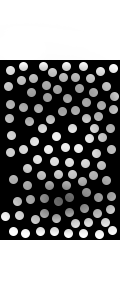
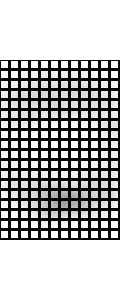
feat: add GridMapInterfaceConfig

diff --git a/legged_traj_planner/legged_traj_plan/src/perception_interface/GridMapInterface.cpp b/legged_traj_planner/legged_traj_plan/src/perception_interface/GridMapInterface.cpp
@@ -33,6 +33,24 @@ GridMapInterface::GridMapInterface(ros::NodeHandle &nh,
     update();
 }
 
+GridMapInterface::GridMapInterface(ros::NodeHandle &nh,
+                                   GridMapInterfaceConfig &config) : nh_(nh),
+                                                                     config_(config)
+
+{
+    ground_layer = config_.groundLayerName;
+    ceiling_layer = config_.ceilingLayerName;
+    sub_ = nh_.subscribe(config_.topicName, 1, &GridMapInterface::callback, this);
+    pub_ = nh_.advertise<grid_map_msgs::GridMap>("grid_map_trav_test", 1, true);
+    pointcloudPublisher_ = nh_.advertise<sensor_msgs::PointCloud2>("sdf/full_sdf", 1);
+    freespacePublisher_ = nh_.advertise<sensor_msgs::PointCloud2>("sdf/free_space", 1);
+    occupiedPublisher_ = nh_.advertise<sensor_msgs::PointCloud2>("sdf/occupied_space", 1);
+    map_.setFrameId("map");
+    ground_layer_trav = ground_layer + "_trav";
+
+    update();
+}
+
 void GridMapInterface::callback(const grid_map_msgs::GridMap &msg)
 {
     if (!map_update_lock_)
@@ -82,7 +100,6 @@ void GridMapInterface::update(bool block, double sdf_margin)
     grid_map::GridMapRosConverter::toPointCloud(*sdf_[0], pointCloud2Msg, 1, [](float sdfValue)
                                                 { return sdfValue <= 0.0; });
     occupiedPublisher_.publish(pointCloud2Msg);
-
 }
 
 void GridMapInterface::updateTorsoRef(void)
@@ -111,7 +128,7 @@ void GridMapInterface::updateTravMap(void)
         for (grid_map::GridMapIterator iterator(map_); !iterator.isPastEnd(); ++iterator)
         {
             double normal_tan_ = std::sqrt(std::pow(map_.at(ground_norm_x_layer, *iterator), 2) + std::pow(map_.at(ground_norm_y_layer, *iterator), 2)) / map_.at(ground_norm_z_layer, *iterator);
-            if (normal_tan_ > 0.5)
+            if (normal_tan_ > config_.normalTangentCrtic)
             {
                 map_.at(ground_layer_trav, *iterator) = std::nan("");
             }

diff --git a/legged_traj_planner/legged_traj_plan/include/legged_traj_plan/perception_interface/GridMapInterface.h b/legged_traj_planner/legged_traj_plan/include/legged_traj_plan/perception_interface/GridMapInterface.h
@@ -31,10 +31,36 @@
 
 using Derivative3 = Eigen::Vector3d;
 
+struct GridMapInterfaceConfig
+{
+    std::string topicName;
+    std::string groundLayerName;
+    std::string ceilingLayerName;
+
+    // SDF
+    double sdfMargin{0.3};
+
+    // TravMap
+    double normalTangentCrtic{0.5};
+
+    void loadParam(ros::NodeHandle &nh, std::string ns = "GridMapInterface")
+    {
+        bool check_digit = true;
+        check_digit &= nh.getParam(ns + "/topicName", topicName);
+        check_digit &= nh.getParam(ns + "/groundLayerName", groundLayerName);
+        check_digit &= nh.getParam(ns + "/ceilingLayerName", ceilingLayerName);
+        check_digit &= nh.getParam(ns + "/sdfMargin", sdfMargin);
+        check_digit &= nh.getParam(ns + "/normalTangentCrtic", normalTangentCrtic);
+    }
+};
+
 class GridMapInterface
 {
 private:
     ros::NodeHandle nh_;
+
+    GridMapInterfaceConfig config_;
+
     ros::Subscriber sub_;
     grid_map::GridMap map_;
     std::unique_ptr<grid_map::SignedDistanceField> sdf_[2];
@@ -61,10 +87,12 @@ private:
     ros::Publisher occupiedPublisher_;
 
 public:
-    GridMapInterface(ros::NodeHandle &nh,
-                     std::string topic_name = "grid_map",
-                     std::string ground_layer_name = "elevation_inpainted",
-                     std::string ceiling_layer_name = "ceiling");
+    [[deprecated]] GridMapInterface(ros::NodeHandle &nh,
+                                    std::string topic_name = "grid_map",
+                                    std::string ground_layer_name = "elevation_inpainted",
+                                    std::string ceiling_layer_name = "ceiling");
+
+    GridMapInterface(ros::NodeHandle &nh, GridMapInterfaceConfig &config);
 
     void callback(const grid_map_msgs::GridMap &msg);
     void update(bool block = true, double sdf_margin = 0.3); // FIXME: this should larger than robot height?

diff --git a/legged_traj_planner/legged_traj_plan_examples/include/legged_traj_plan_examples/elspider_air_planner/ElSpiderAirPlannerBase.h b/legged_traj_planner/legged_traj_plan_examples/include/legged_traj_plan_examples/elspider_air_planner/ElSpiderAirPlannerBase.h
@@ -86,7 +86,9 @@ public:
         robot_interface_shadow_ = std::make_shared<DummyElSpiderAirInterfaceROS>(interface_shadow_config);
 
         // GridMap Interface
-        gridmap_interface_ = std::make_shared<GridMapInterface>(nh_, "/grid_map");
+        GridMapInterfaceConfig gridmap_interface_config;
+        gridmap_interface_config.loadParam(nh_);
+        gridmap_interface_ = std::make_shared<GridMapInterface>(nh_, gridmap_interface_config);
 
         // Swing Traj Planner
         swing_traj_planner_config_.loadParams(nh_);
